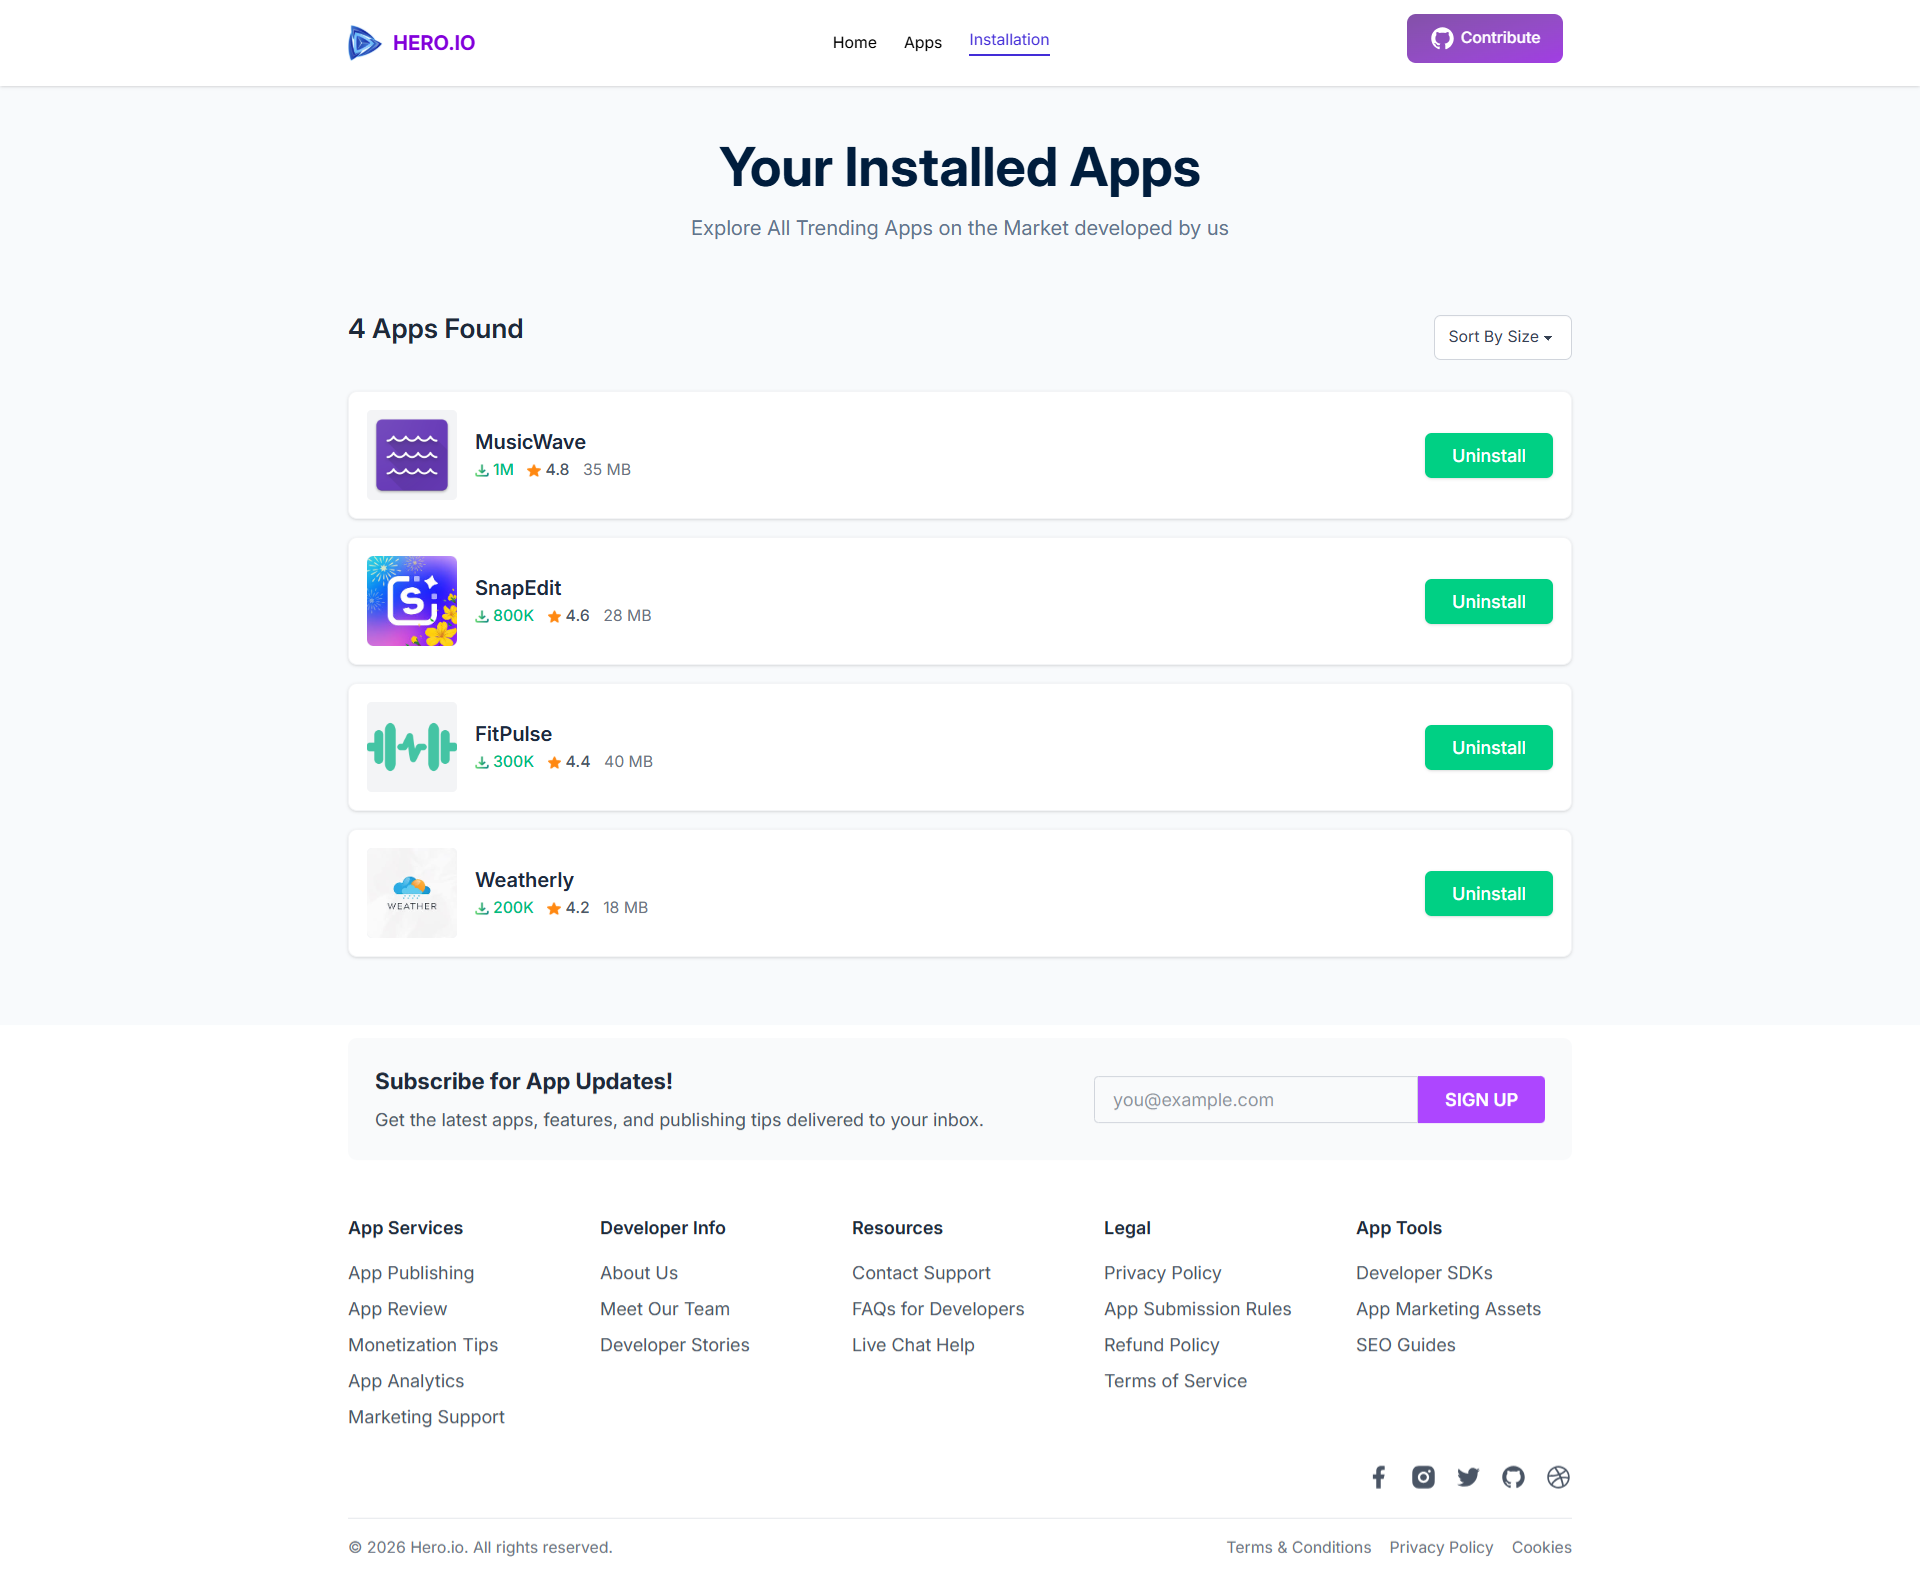
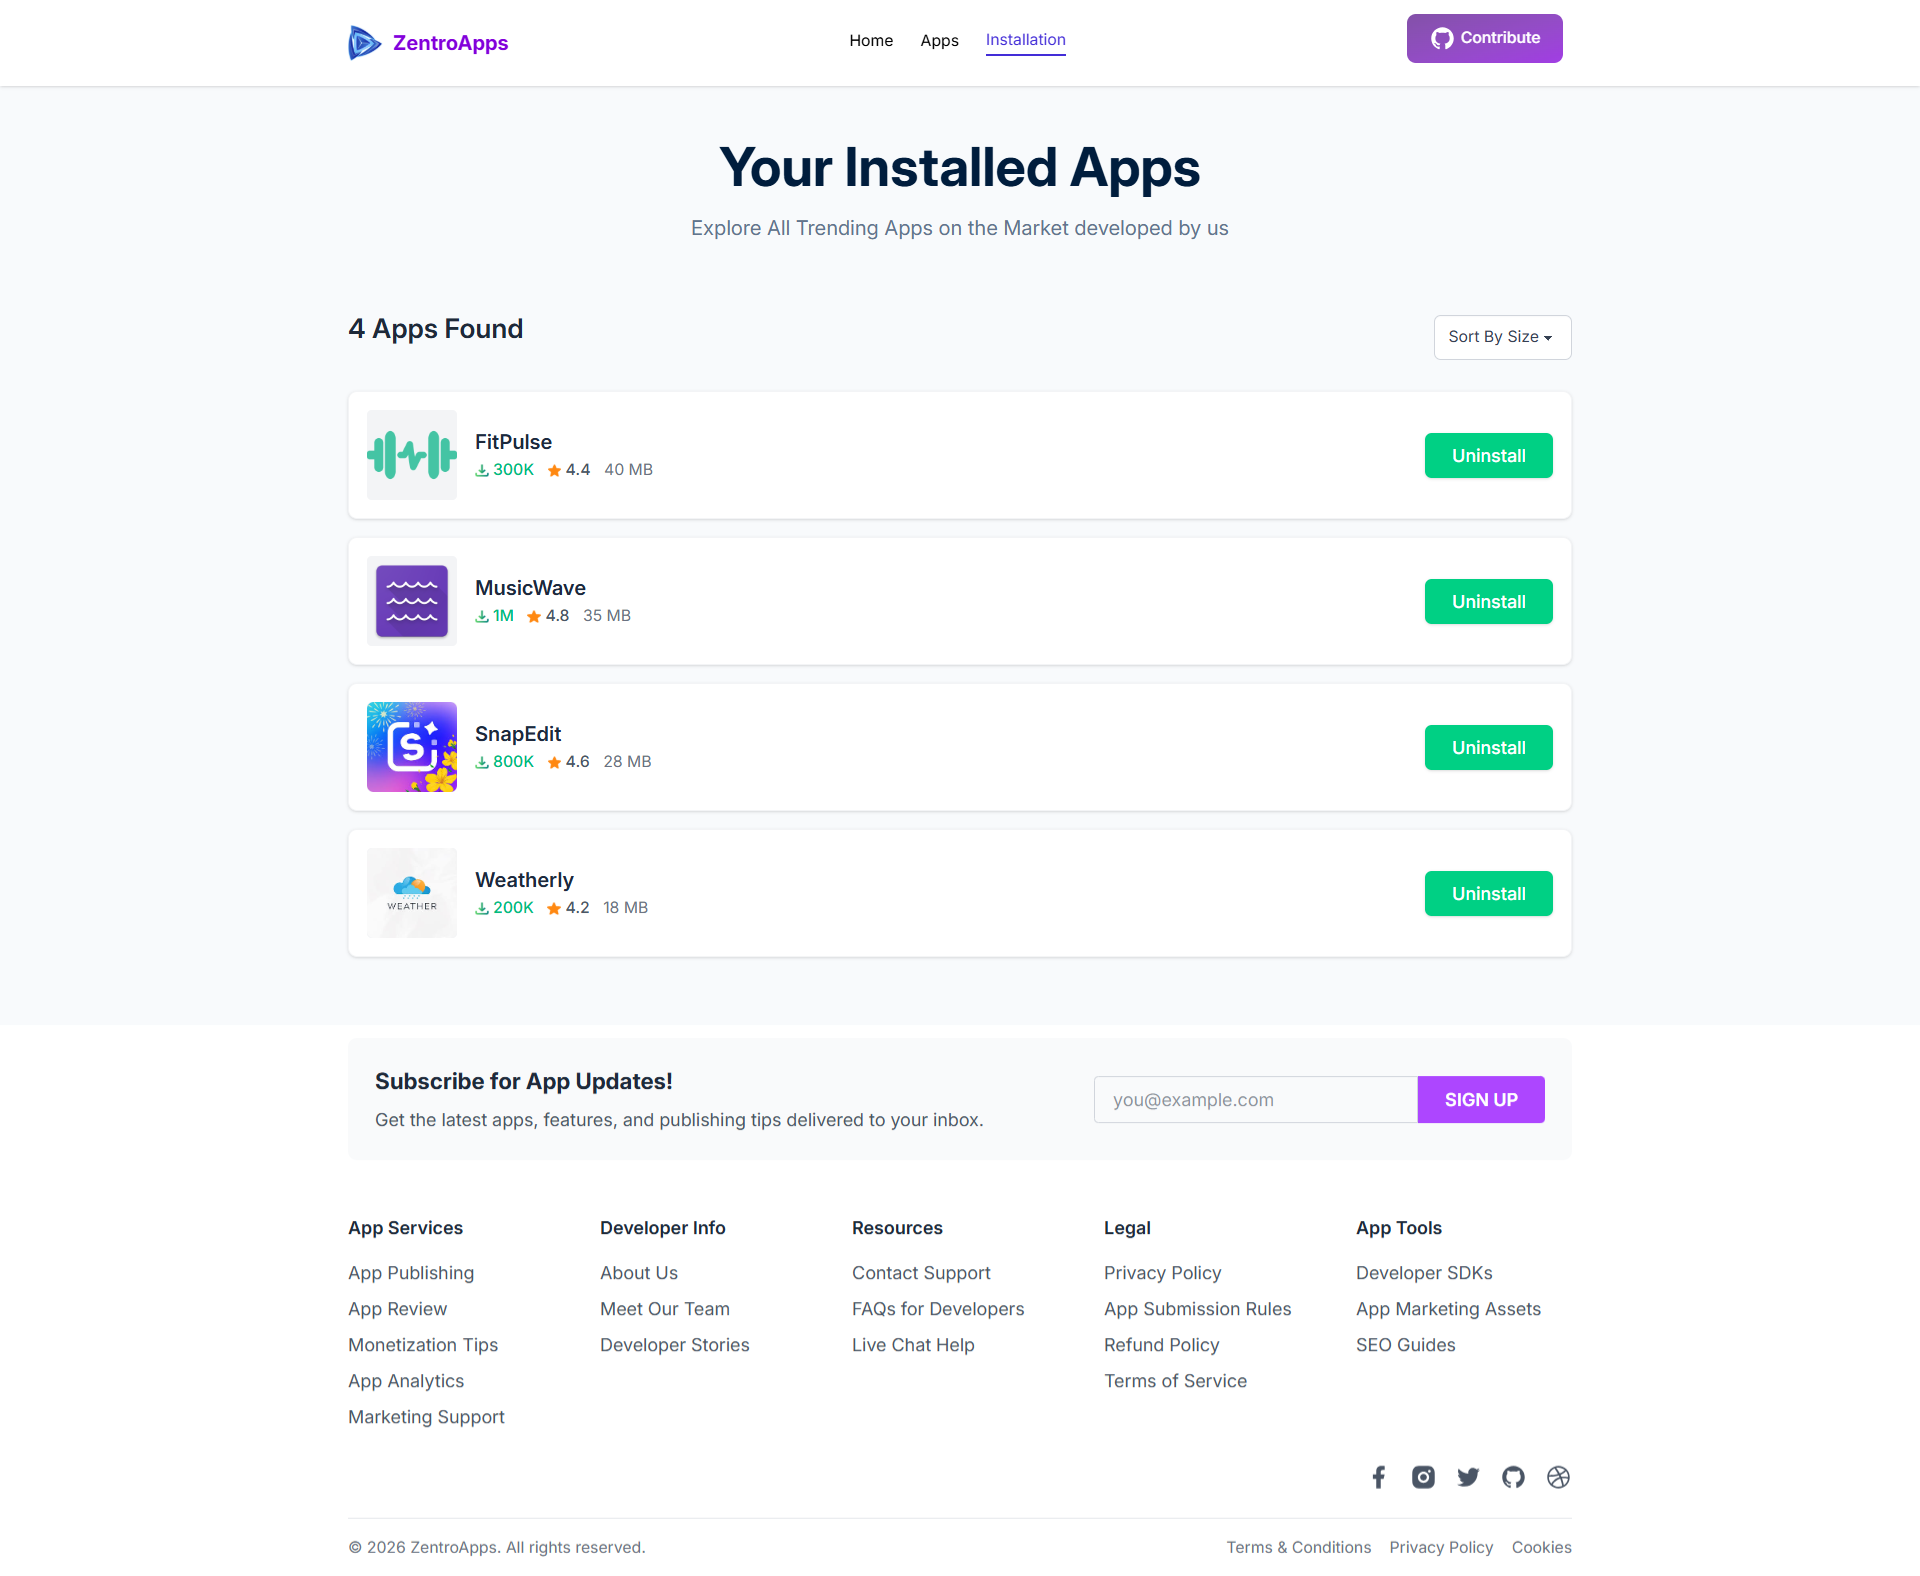
apps name change & screenshot changed

diff --git a/src/components/HeroSection/HeroSection.jsx b/src/components/HeroSection/HeroSection.jsx
@@ -10,7 +10,7 @@ const HeroSection = () => {
       </h1>
       {/* Description Text */}
       <p className='mt-4 max-w-4xl text-slate-500 text-sm md:text-base lg:text-lg leading-relaxed'>
-        At HERO.IO , we craft innovative apps designed to make everyday life
+        At ZentroApps , we craft innovative apps designed to make everyday life
         simpler, smarter, and more exciting. Our goal is to turn your ideas into
         digital experiences that truly make an impact.
       </p>

diff --git a/src/shared/Footer/Footer.jsx b/src/shared/Footer/Footer.jsx
@@ -113,7 +113,7 @@ const FooterAppStore = () => {
 
         {/* Bottom */}
         <div className='flex flex-col md:flex-row justify-between items-center text-gray-500 text-sm border-t border-gray-200 pt-4'>
-          <p>&copy; 2026 Hero.io. All rights reserved.</p>
+          <p>&copy; 2026 ZentroApps. All rights reserved.</p>
           <div className='flex space-x-4 mt-2 md:mt-0'>
             <Link to='#' className='hover:text-gray-800 transition'>
               Terms & Conditions

diff --git a/index.html b/index.html
@@ -2,13 +2,9 @@
 <html lang="en" data-theme="light">
   <head>
     <meta charset="UTF-8" />
-    <link
-      rel="shortcut icon"
-      href="/assets/logo.png"
-      type="image/x-icon"
-    />
+    <link rel="shortcut icon" href="/assets/logo.png" type="image/x-icon" />
     <meta name="viewport" content="width=device-width, initial-scale=1.0" />
-    <title>Hero.io</title>
+    <title>ZentroApps - All Your Apps, One Hub.</title>
   </head>
   <body>
     <div id="root"></div>

diff --git a/src/shared/Header/Header.jsx b/src/shared/Header/Header.jsx
@@ -14,7 +14,7 @@ const Header = () => {
           {/* Logo */}
           <Link to={'/'} className='flex items-center gap-2'>
             <img src='/assets/logo.png' alt='logo' className='w-8 h-8' />
-            <h1 className='font-bold text-lg text-purple-700'>HERO.IO</h1>
+            <h1 className='font-bold text-lg text-purple-700'>ZentroApps</h1>
           </Link>
 
           {/* Navlist Items */}

diff --git a/README.md b/README.md
@@ -1,4 +1,4 @@
-# 📱 HeroIO – Modern App Store Web App
+# 📱 ZentroApps – Modern App Store Web App
 
 ![React](https://img.shields.io/badge/React-18-blue)
 ![Tailwind](https://img.shields.io/badge/TailwindCSS-3-38B2AC)
@@ -9,8 +9,8 @@
 
 ## 🌐 Live Links
 
-🔗 **Live Site:** https://heroui24.netlify.app/  
-💻 **GitHub Repository:** https://github.com/hasanujjamanjibon/hero-io.git  
+🔗 **Live Site:** https://zentroapps.netlify.app/  
+💻 **GitHub Repository:** https://github.com/hasanujjamanjibon/ZentroApps.git  
 👤 **GitHub Profile:** https://github.com/hasanujjamanjibon/
 
 ---
@@ -37,7 +37,7 @@
 
 ## 📖 Description
 
-HeroIO is a modern and responsive App Store web application where users can explore apps, search in real-time, view detailed analytics, and manage installed applications using localStorage.
+ZentroApps is a modern and responsive App Store web application where users can explore apps, search in real-time, view detailed analytics, and manage installed applications using localStorage.
 
 This project demonstrates real-world frontend development concepts including routing, dynamic UI rendering, state management, and data visualization.
 
@@ -119,10 +119,10 @@ src/
 
 ```bash
 # Clone the repository
-git clone https://github.com/hasanujjamanjibon/hero-io.git
+git clone https://github.com/hasanujjamanjibon/ZentroApps.git
 
 # Navigate to project folder
-cd hero-io
+cd ZentroApps
 
 # Install dependencies
 npm install
